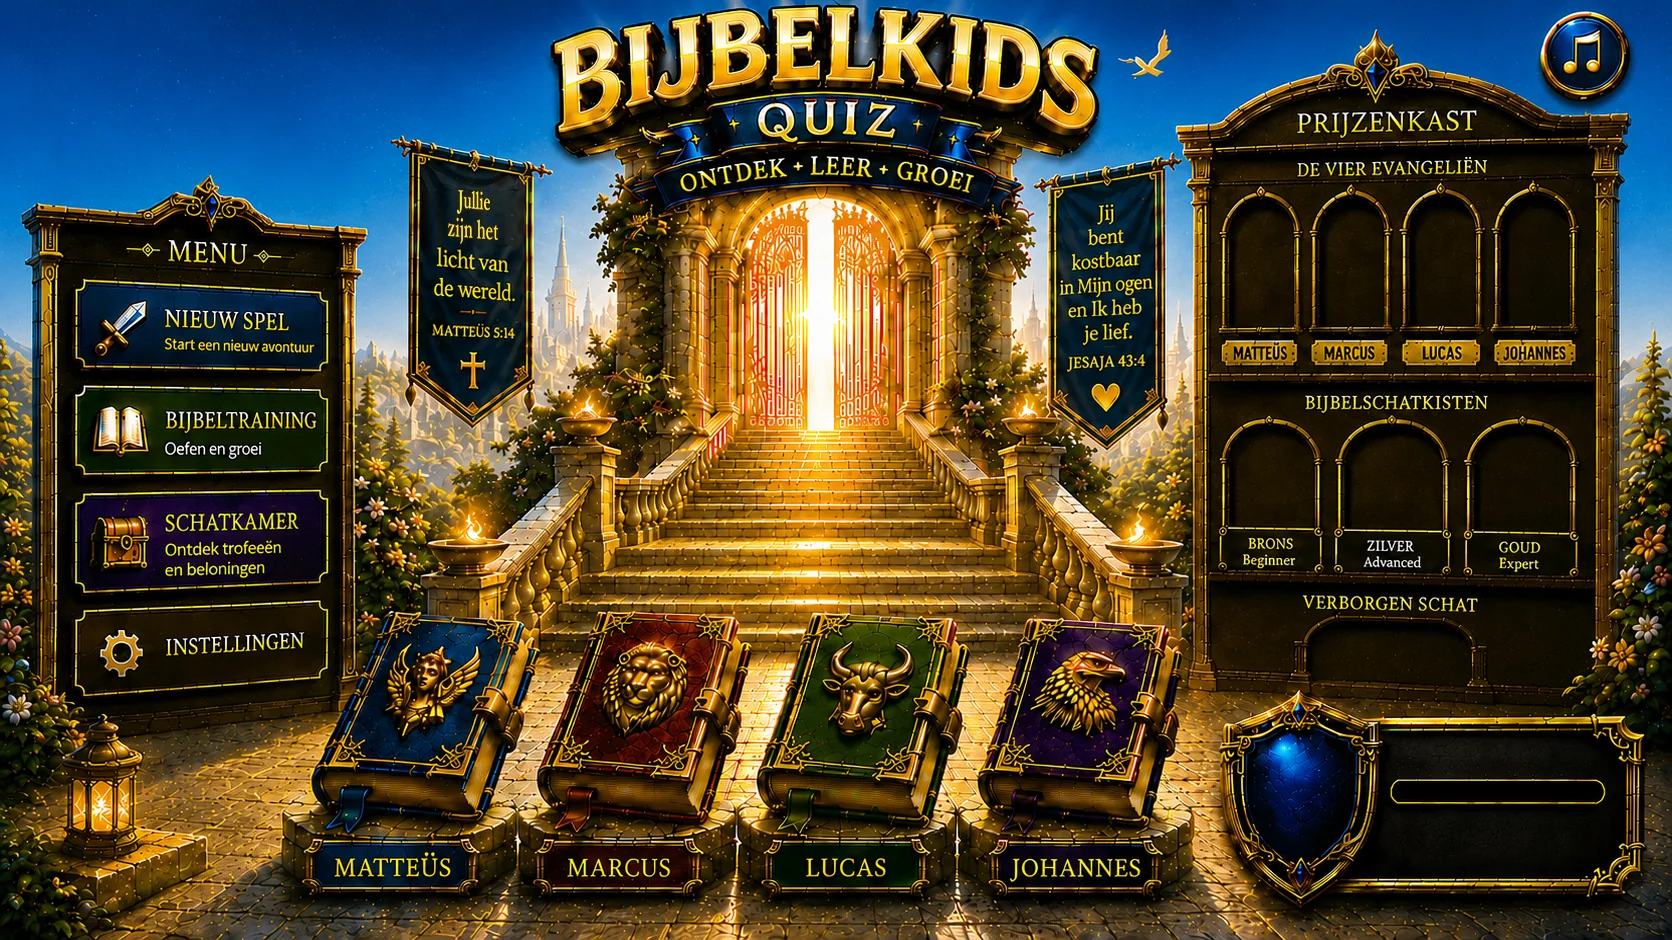
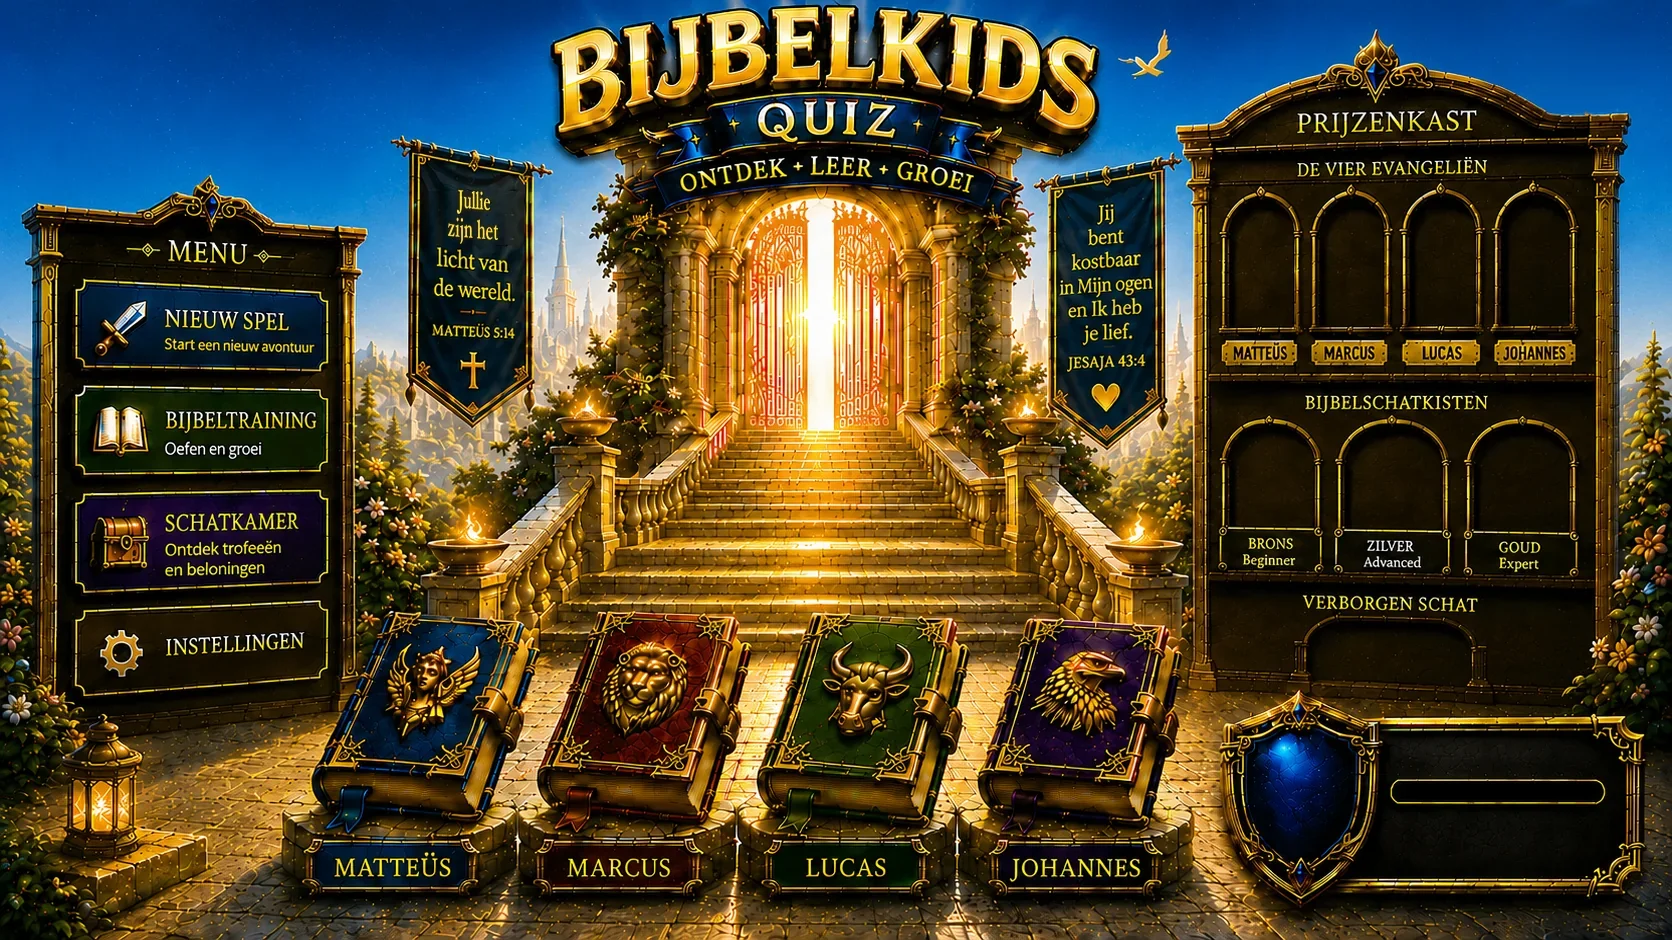
Startscherm: geschilderd muzieknootje-embleem rechtsboven weg
- tools/embleem_weg.py haalt het embleem uit de twee beeldlagen:
  startschermzonderwolken.webp (lucht ingevuld, ook de slagschaduw van
  het embleem boven het dak) en voorgrond_transparante_lucht.webp
  (doorzichtig gemaakt). Zelfde afmetingen, verder niets veranderd.
  Het script draait altijd op de oorspronkelijke platen, één keer.
- PLATEN-teller van die twee platen ?v=2 -> ?v=3 op alle plekken met
  dezelfde URL: style.css, index.html (voorgrond en wachtOpBestanden in
  het laadscherm) en script.js (scherm 2). voorgrond_scherm2 is niet
  veranderd en blijft op ?v=2; de toelichting in <head> zegt dat nu.
- Commentaar bij beide platen: het embleem is eruit; een nieuwe export uit
  een oud bronbestand brengt het terug, draai dan het script opnieuw.
- Commentaar bij .fullscreen-button en de knopkleuren in :root: de tinten
  komen van het vroegere embleem, dat niet meer bestaat; de knop zelf is
  ongewijzigd. Muzieknootje ook uit het wolkencommentaar gehaald.
- CLAUDE.md: nieuwe paragraaf Platenteller (vijf plekken, per plaat een
  eigen nummer, tools/embleem_weg.py bij een nieuwe export).
- Cache-buster 445 -> 446 (style.css en script.js gewijzigd).

Changed region(s): [[0.9019, 0.0, 0.9952, 0.1234], [0.8086, 0.0617, 0.8397, 0.0926]]

diff --git a/index.html b/index.html
@@ -178,7 +178,7 @@
             // style.css. Ze worden hier meteen opgehaald, nog voor style.css
             // binnen is.
             wachtOpBestanden: [
-                "images/startschermzonderwolken.webp?v=2"      // #game-container (style.css)
+                "images/startschermzonderwolken.webp?v=3"      // #game-container (style.css)
             ],
             // <img>-elementen van het startscherm. Ze tellen mee zodra ze in de
             // pagina verschijnen (ook als script.js ze maakt, zoals de wolken).
@@ -349,7 +349,7 @@
          van de vier is gewijzigd. Nooit per bestand ophogen, nooit terug in nummer.
          Lees het huidige nummer hier uit het bestand. De favicons hierboven staan
          hier los van (eigen ?v=). -->
-    <link rel="stylesheet" href="style.css?v=445">
+    <link rel="stylesheet" href="style.css?v=446">
 
     <!-- VIJFDE, LOSSE TELLER — de albumafbeeldingen, nu ?v=4.
          Acht verwijzingen dragen samen dit eigen nummer:
@@ -393,13 +393,23 @@
          script.js, deze bij een wijziging in images/Avatars/. Laat ze niet
          meeliften met elkaar. -->
 
-    <!-- DERDE, LOSSE TELLER — de scèneplaten van het startscherm, nu ?v=2.
-         Vier verwijzingen dragen samen dit eigen nummer:
+    <!-- DERDE, LOSSE TELLER — de scèneplaten van het startscherm, nu ?v=3.
+         Vijf verwijzingen dragen samen dit eigen nummer:
              style.css : 61     startschermzonderwolken.webp
+             index.html: 181    startschermzonderwolken.webp               (laadscherm, wachtOpBestanden)
              index.html: 143    voorgrond_transparante_lucht.webp
              script.js : 14109  startschermzonderwolken.webp               (scherm 2)
-             script.js : 14116  voorgrond_scherm2_transparante_lucht.webp  (scherm 2)
+             script.js : 14116  voorgrond_scherm2_transparante_lucht.webp  (scherm 2, nog ?v=2)
          (Regelnummers schuiven; zoek desnoods op "?v=" in die drie bestanden.)
+         Dezelfde plaat draagt overal precies dezelfde URL, anders laadt de
+         browser hem dubbel. Bij ?v=3 (19 nov 2026) zijn alleen
+         startschermzonderwolken.webp en voorgrond_transparante_lucht.webp
+         vervangen; voorgrond_scherm2 is niet veranderd en bleef op ?v=2.
+
+         Het muzieknootje-embleem rechtsboven is uit die twee platen gehaald
+         met tools/embleem_weg.py. Worden ze ooit opnieuw geëxporteerd uit een
+         oud bronbestand, dan komt het nootje terug: draai het script dan
+         opnieuw (en hoog deze teller op).
 
          Hoog dit nummer ALLEEN op wanneer een van die platen echt is vervangen —
          de banier overgeschilderd, de scène opnieuw gerenderd. Nooit meeliften
@@ -464,11 +474,13 @@
              maar met de lucht weggesneden (transparant). Ligt boven de
              driftende wolkenlaag (zie script.js / .wolken-laag) en dekt die af
              behalve waar lucht is, zodat de wolken áchter logo, banieren,
-             prijzenkast en muzieknootje door lijken te drijven. Puur decoratief.
+             prijzenkast door lijken te drijven. Puur decoratief.
              Stacking via z-index in style.css (.voorgrond = 3). -->
         <!-- ?v=N hier is de PLATEN-teller, niet die van style.css/script.js —
-             zie de toelichting in de <head>. -->
-        <img class="voorgrond" src="images/voorgrond_transparante_lucht.webp?v=2" alt="" aria-hidden="true">
+             zie de toelichting in de <head>. Het muzieknootje-embleem
+             rechtsboven is uit deze plaat gehaald (tools/embleem_weg.py); een
+             nieuwe export uit een oud bronbestand brengt het terug. -->
+        <img class="voorgrond" src="images/voorgrond_transparante_lucht.webp?v=3" alt="" aria-hidden="true">
 
         <!-- Twee iconen in dezelfde knop; de CSS toont er precies één per state
              (expand = ga naar fullscreen, collapse = verlaat fullscreen). De
@@ -1235,9 +1247,9 @@
     <!-- ?v=N gelijk houden met style.css in de <head> — zie toelichting daar.
          ontdekken-inhoud.js levert de teksten van de Ontdekken-hub en moet vóór
          script.js staan, want ontdekRubrieken verwijst ernaar. -->
-    <script src="lang/nl.js?v=445"></script>
-    <script src="ontdekken-inhoud.js?v=445"></script>
-    <script src="script.js?v=445"></script>
+    <script src="lang/nl.js?v=446"></script>
+    <script src="ontdekken-inhoud.js?v=446"></script>
+    <script src="script.js?v=446"></script>
 
 </body>
 

diff --git a/style.css b/style.css
@@ -1,9 +1,10 @@
 /* © 2026 Bijbelkids Quiz (bijbelkidsquiz.nl). Vrij te gebruiken voor les, catechese en Bijbelgroep; zie auteursrecht.html. Alle overige rechten voorbehouden. */
 
-/* Kleuren gesampled uit het geschilderde blauwe muzieknootje-knopje rechtsboven
-   in images/startschermzonderwolken.webp (knop-center ~1582,55; diameter ~85px).
-   Hier centraal gezet zodat de fullscreen-knop dezelfde familie deelt en de
-   tinten later bij te stellen zijn zonder in de PNG te hoeven meten. */
+/* Kleuren van de fullscreen-knop. Ooit gesampled uit het geschilderde blauwe
+   muzieknootje-embleem rechtsboven in de startplaat (center ~1582,55; diameter
+   ~85px). Dat embleem is op 19 nov 2026 uit de plaat gehaald (zie
+   tools/embleem_weg.py); de tinten zijn gebleven en staan hier vast, los van
+   de plaat. --knop-nootje is het goud van het icoon. */
 :root {
     --knop-blauw-licht: #005EC3;   /* glans bovenin het bolvlak */
     --knop-blauw-donker: #002155;  /* diep navy in het onderste deel */
@@ -57,8 +58,12 @@ body {
 
     /* ?v=N hier is de PLATEN-teller met een eigen ritme: alleen omhoog als deze
        plaat echt is vervangen, en nooit samen met de teller van style.css /
-       lang/nl.js / script.js. Volledige toelichting in index.html <head>. */
-    background-image: url("images/startschermzonderwolken.webp?v=2");
+       lang/nl.js / script.js. Volledige toelichting in index.html <head>.
+       Het muzieknootje-embleem rechtsboven is uit deze plaat gehaald
+       (tools/embleem_weg.py). Wordt de plaat ooit opnieuw geëxporteerd uit een
+       oud bronbestand, dan komt het nootje terug: daarna het script opnieuw
+       draaien. */
+    background-image: url("images/startschermzonderwolken.webp?v=3");
     background-size: 100% 100%;
     background-repeat: no-repeat;
     background-position: center;
@@ -222,10 +227,11 @@ button:hover {
 
     padding: 0;
 
-    /* Overschrijft de globale button{}-stijl (bruin/goud) met de tinten die uit
-       het geschilderde muzieknootje-knopje zijn gesampled, zodat de twee knoppen
-       één familie vormen: blauw bolvlak, gouden ring, goud icoon. De gouden glow
-       (box-shadow) erft de knop bewust van button{} — dezelfde verhouding. */
+    /* Overschrijft de globale button{}-stijl (bruin/goud) met de vaste
+       knoptinten uit :root: blauw bolvlak, gouden ring, goud icoon. Ze komen
+       van het geschilderde muzieknootje-embleem dat vroeger rechtsboven in de
+       startplaat stond (nu weg). De gouden glow (box-shadow) erft de knop
+       bewust van button{} — dezelfde verhouding. */
     background: linear-gradient(180deg, var(--knop-blauw-licht), var(--knop-blauw-donker));
     border: 2px solid var(--knop-goud);
     color: var(--knop-nootje);
@@ -532,7 +538,7 @@ height: 22%;
     /* GEEN fade-masker meer. De afscherming gebeurt nu door de voorgrondlaag
        (.voorgrond, z-index 3): dat is dezelfde scène met alléén de lucht
        weggesneden (transparant). Wolken driften dus over de hele hemel — óók
-       achter het logo, de banieren, de prijzenkast en het muzieknootje — maar
+       achter het logo, de banieren en de prijzenkast — maar
        worden door de voorgrond afgedekt zodra ze buiten de open lucht komen.
        Zo bedekken ze nooit architectuur of UI, en is de rechterkant niet langer
        een dode hoek. */

diff --git a/script.js b/script.js
@@ -14038,7 +14038,7 @@ function bouwWolkenLaag(config, prefix) {
     // ?v=N hieronder is de PLATEN-teller met een eigen ritme: alleen omhoog als
     // de plaat echt is vervangen, nooit samen met de teller van style.css /
     // lang/nl.js / script.js. Volledige toelichting in index.html <head>.
-    bg.src = "images/startschermzonderwolken.webp?v=2";   // avondhemel (scherm 1's scène)
+    bg.src = "images/startschermzonderwolken.webp?v=3";   // avondhemel (scherm 1's scène)
     bg.alt = "";
 
     const laag = bouwWolkenLaag(WOLKEN, "s2-");

diff --git a/tools/embleem_weg.py b/tools/embleem_weg.py
@@ -1,0 +1,73 @@
+# Haalt het geschilderde embleem (muzieknootje) rechtsboven weg uit de twee
+# beeldlagen van het startscherm. Draaien vanuit de hoofdmap van de repo:
+#   python tools/embleem_weg.py
+# Altijd draaien op de oorspronkelijke platen (mét embleem), nooit twee keer
+# achter elkaar: elke keer opslaan is een extra verliesvolle compressie.
+import io, time
+import numpy as np
+from PIL import Image, ImageDraw, ImageFilter
+
+CX, CY = 1585, 55          # middelpunt embleem (pixels in 1672-breed beeld)
+R_VOOR = 55                # straal die in de voorgrond doorzichtig wordt
+BCX, BCY, R_ACHTER = 1583, 56, 53   # cirkel die in de achtergrond wordt ingevuld
+
+def lucht(c): return c[2] > c[0] + 40          # RGB: blauw duidelijk boven rood
+
+def bewaar(img, pad):
+    # Via een buffer en met een paar pogingen: op Windows grijpt soms een
+    # ander programma (virusscanner) kort naar het bestand.
+    buf = io.BytesIO(); img.save(buf, format="WEBP", quality=85)
+    for poging in range(5):
+        try:
+            with open(pad, "wb") as f: f.write(buf.getvalue())
+            return
+        except OSError:
+            time.sleep(1)
+    raise OSError("kon " + pad + " niet opslaan")
+
+# --- Voorgrond: embleem doorzichtig maken -----------------------------------
+p = "images/voorgrond_transparante_lucht.webp"
+voor = Image.open(p).convert("RGBA")
+assert voor.size == (1672, 941), voor.size
+m = Image.new("L", voor.size, 0)
+ImageDraw.Draw(m).ellipse((CX-R_VOOR, CY-R_VOOR, CX+R_VOOR, CY+R_VOOR), fill=255)
+voor.paste((0, 0, 0, 0), (0, 0), m)
+bewaar(voor, p)
+
+# --- Achtergrond: lucht invullen, per rij tussen de lucht links en rechts ----
+p = "images/startschermzonderwolken.webp"
+achter = Image.open(p).convert("RGB")
+assert achter.size == (1672, 940), achter.size
+im = np.asarray(achter).astype(np.float32)
+out = im.copy()
+rng = np.random.default_rng(1)
+
+for y in range(max(0, BCY-R_ACHTER), BCY+R_ACHTER+1):
+    dx = int((R_ACHTER**2 - (y-BCY)**2) ** 0.5)
+    xl, xr = BCX-dx-4, BCX+dx+4
+    L = im[y, xl-4:xl+1].mean(0); Rr = im[y, xr:xr+5].mean(0)
+    okL, okR = lucht(L), lucht(Rr)
+    if not (okL or okR): continue
+    for x in range(BCX-dx-1, BCX+dx+2):
+        t = (x-xl) / (xr-xl)
+        c = L*(1-t) + Rr*t if (okL and okR) else (Rr if okR else L)
+        out[y, x] = c + rng.normal(0, 1.2, 3)
+# Slagschaduw van het oude embleem: die viel onder de cirkel tot op het dak.
+# Donkere luchtpixels daar krijgen de lucht van dezelfde rij, rechts ervan.
+for y in range(BCY, BCY + R_ACHTER + 12):
+    ref = im[y, 1645:1656].mean(0)
+    for x in range(BCX - R_ACHTER - 8, BCX + R_ACHTER + 9):
+        if (x - BCX) ** 2 + (y - BCY) ** 2 > (R_ACHTER + 9) ** 2: continue
+        c = out[y, x]
+        if c[0] < 30 and c[2] > c[0] + 60 and c[2] < ref[2] - 4:
+            out[y, x] = ref + rng.normal(0, 1.2, 3)
+res = Image.fromarray(np.clip(out, 0, 255).astype(np.uint8))
+# zachte overgang op de rand van de cirkel
+mask = Image.new("L", res.size, 0)
+ImageDraw.Draw(mask).ellipse((BCX-R_ACHTER-1, BCY-R_ACHTER-1, BCX+R_ACHTER+1, BCY+R_ACHTER+1), fill=255)
+ms = np.asarray(mask.filter(ImageFilter.GaussianBlur(2))).astype(np.float32)[..., None] / 255
+rand = ((ms > 0.05) & (ms < 0.95)).astype(np.float32)
+zacht = np.asarray(res.filter(ImageFilter.GaussianBlur(1))).astype(np.float32)
+res = Image.fromarray(np.clip(np.asarray(res)*(1-rand) + zacht*rand, 0, 255).astype(np.uint8))
+bewaar(res, p)
+print("Klaar: embleem weggehaald uit beide lagen.")

diff --git a/CLAUDE.md b/CLAUDE.md
@@ -132,6 +132,48 @@ Zoek op `images/album/` in `index.html` en `style.css` en op `ALBUM_VERSIE` in
 `script.js`; dat vindt ze alle acht (plus de toelichtingen in commentaar).
 De toelichting staat ook boven in `index.html`, naast die van de avatars.
 
+### Platenteller — de scèneplaten van het startscherm
+
+De grote scèneplaten van het startscherm (`startschermzonderwolken.webp`,
+`voorgrond_transparante_lucht.webp` en `voorgrond_scherm2_transparante_lucht.webp`
+in `images/`) dragen ook een **eigen `?v=`-teller**, los van de cache-buster,
+de avatarteller en de albumteller.
+
+| teller | gaat omhoog zodra |
+| --- | --- |
+| **platenteller** | **een van de scèneplaten echt wordt vervangen** |
+
+Zelfde reden als bij de avatars: een nieuwe plaat houdt zijn bestandsnaam.
+De platen zijn groot (samen ruim 1 MB), dus nooit meeliften met een andere
+teller: een onnodige ophoging laat elke bezoeker ze opnieuw downloaden.
+
+**Per plaat, niet per groep.** Een plaat die niet verandert, houdt zijn eigen
+nummer. Bij `?v=3` (19 nov 2026) zijn alleen `startschermzonderwolken.webp`
+en `voorgrond_transparante_lucht.webp` vervangen;
+`voorgrond_scherm2_transparante_lucht.webp` bleef op `?v=2`. Dezelfde plaat
+draagt wél overal precies dezelfde URL, anders laadt de browser hem dubbel.
+
+**Vijf plekken:**
+
+```
+style.css    startschermzonderwolken.webp (#game-container)
+index.html   startschermzonderwolken.webp (wachtOpBestanden in het laadscherm)
+index.html   voorgrond_transparante_lucht.webp (img.voorgrond)
+script.js    startschermzonderwolken.webp (scherm 2, de avondhemel)
+script.js    voorgrond_scherm2_transparante_lucht.webp (scherm 2)
+```
+
+Zoek op de bestandsnamen in `index.html`, `style.css` en `script.js`; dat
+vindt ze alle vijf (plus de toelichtingen in commentaar). De toelichting staat
+ook boven in `index.html` (DERDE, LOSSE TELLER).
+
+**Het muzieknootje-embleem is eruit gehaald.** Het geschilderde embleem
+rechtsboven is met `tools/embleem_weg.py` uit `startschermzonderwolken.webp`
+en `voorgrond_transparante_lucht.webp` gehaald. Wordt de startplaat ooit
+opnieuw geëxporteerd uit een oud bronbestand, dan komt het nootje terug: draai
+dat script dan opnieuw op de nieuwe plaat (één keer, op de plaat mét embleem)
+en hoog de platenteller op.
+
 ## Vervangingen in `script.js`
 
 Tekstvervangingen in `script.js` gaan via een **Python-script met een
